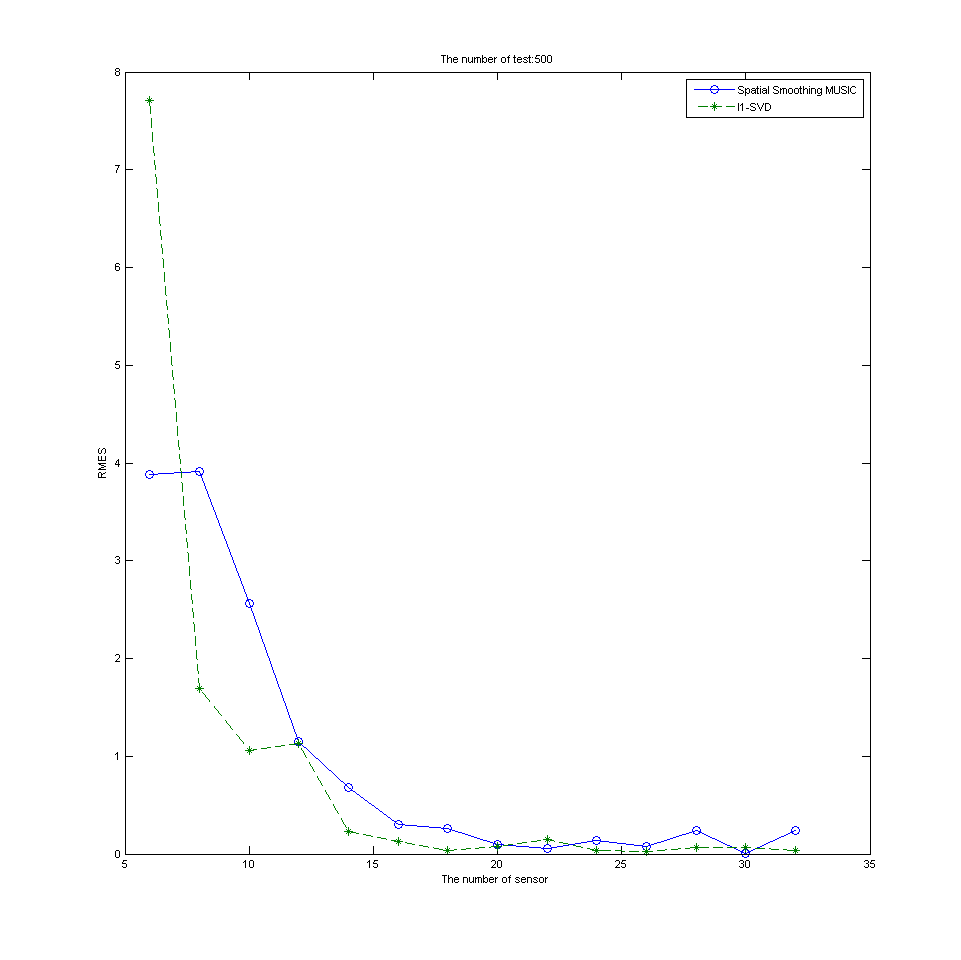
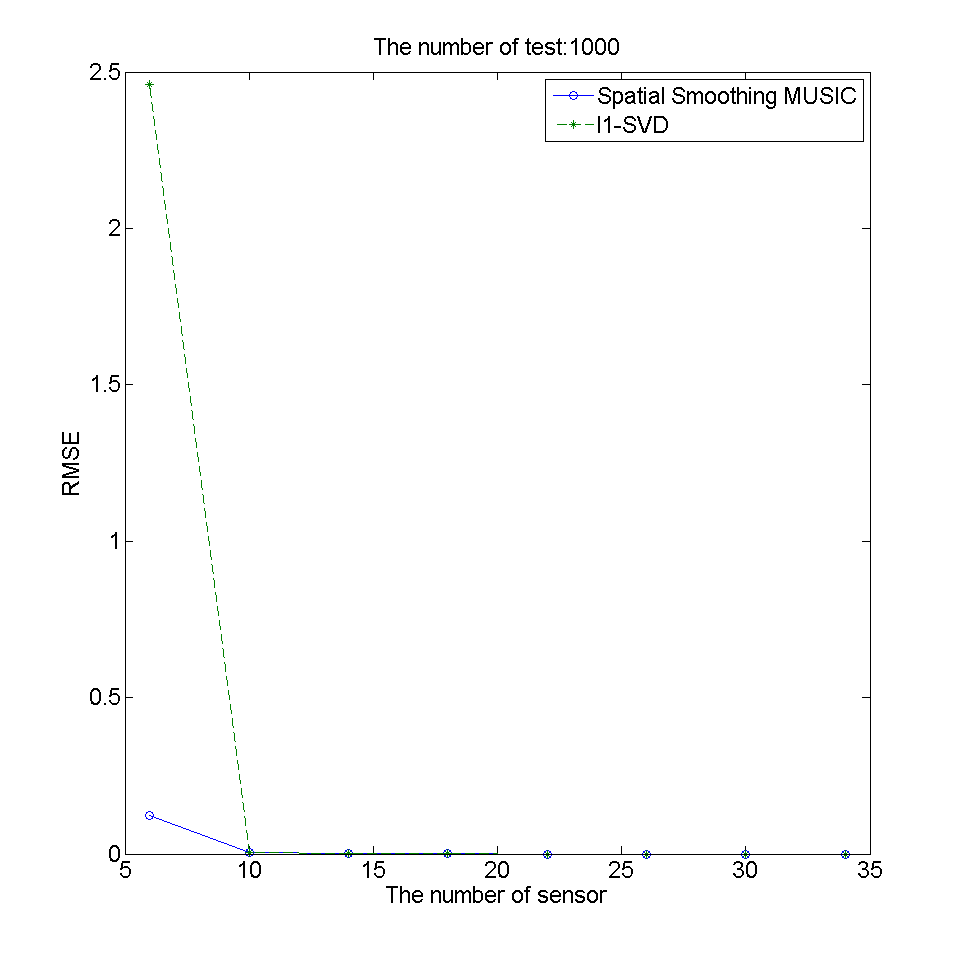
update snr bug

diff --git a/matlab/l1_svd.m b/matlab/l1_svd.m
@@ -29,12 +29,12 @@ function [theta, S_sv_hat] = l1_svd(SNR, snapshots, sensorNum)
     %----------Consider three sources at -10 degree, 0 degree and 10 degree.----------------------%
     %----------Sources at -10 degree and 0 degree is coherent.------------------------------------%
     %----------Each source is generated from a zerom mean Gaussian distribution.------------------%
-    theta_S = [-10; 0; 10];
+    theta_S = [-20; 0; 20];
     sourceNum = length(theta_S);
-    sigma_S = sigma_N * 10^(SNR/20);
+    sigma_S = sigma_N * 10^(SNR/10);
     signalCovMat = [sigma_S, 0.99*sigma_S, 0; 0.99*sigma_S, sigma_S, 0; 0, 0, sigma_S];
     signalAmp = mvnrnd(zeros(sourceNum, 1), signalCovMat, snapshots);
-    signalPhase = exp(-1j*2*pi*f*Ns + randn());
+    signalPhase = exp(-1j*2*pi*f*Ns);
     signalMat = zeros(size(signalAmp));             % Each row is A sample 
     for col = 1: sourceNum
         signalMat(:, col) = signalAmp(:, col) .* signalPhase;
@@ -50,14 +50,14 @@ function [theta, S_sv_hat] = l1_svd(SNR, snapshots, sensorNum)
     [~, ~, rightVec] = svd(arrayOut);
     dimReduceMat = [eye(sourceNum), zeros(sourceNum, snapshots - sourceNum)]';
     arrayOut_DimReduce = arrayOut * rightVec * dimReduceMat;
-    theta = (-90: 90)';                % angle scan range
+    theta = (-90: 0.1: 90)';                % angle scan range
     manifoldMat_hat = zeros(sensorNum, length(theta));
     for col = 1: length(theta)
         manifoldMat_hat(:, col) = exp(-1j*2*pi*f*((spacingK*sind(theta(col)))/c));
     end
 
     %----------SOC programming-----------------------%
-    regParam = 1.4;
+    regParam = 1.42;
     sumVec = ones(length(theta), 1);
     cvx_begin
         variables p q r(length(theta));

diff --git a/matlab/SpatialSmoothing_MUSIC.m b/matlab/SpatialSmoothing_MUSIC.m
@@ -29,12 +29,12 @@ function [theta, P] = SpatialSmoothing_MUSIC(SNR, snapshots, sensorNum)
     %----------Consider three sources at -10 degree, 0 degree and 10 degree.----------------------%
     %----------Sources at -10 degree and 0 degree is coherent.------------------------------------%
     %----------Each source is generated from a zerom mean Gaussian distribution.------------------%
-    theta_S = [-10; 0; 10];
+    theta_S = [-20; 0; 20];
     sourceNum = length(theta_S);
-    sigma_S = sigma_N * 10^(SNR/20);
+    sigma_S = sigma_N * 10^(SNR/10);
     signalCovMat = [sigma_S, 0.99*sigma_S, 0; 0.99*sigma_S, sigma_S, 0; 0, 0, sigma_S];
     signalAmp = mvnrnd(zeros(sourceNum, 1), signalCovMat, snapshots);
-    signalPhase = exp(-1j*2*pi*f*Ns + randn());
+    signalPhase = exp(-1j*2*pi*f*Ns);
     signalMat = zeros(size(signalAmp));             % Each row is A sample 
     for col = 1: sourceNum
         signalMat(:, col) = signalAmp(:, col) .* signalPhase;
@@ -70,7 +70,7 @@ function [theta, P] = SpatialSmoothing_MUSIC(SNR, snapshots, sensorNum)
     [~, eigenValsIdx] = sort(eigenVals);
     noiseSubspace = eigenVec(:, eigenValsIdx(1: m - sourceNum));
 
-    theta = (-90: 90)';
+    theta = (-90: 0.1: 90)';
     P = zeros(length(theta), 1);
     for idx = 1: length(theta)
         steeringVec = exp(-1j*2*pi*f*(spacing*(0: m - 1)'*sind(theta(idx)))/c);

diff --git a/matlab/different_sensorNum_l1_svd_SSMUSIC.m b/matlab/different_sensorNum_l1_svd_SSMUSIC.m
@@ -1,10 +1,10 @@
-theta_S = [-10; 0; 10];
+theta_S = [-20; 0; 20];
 SNR = 25;
 snapshots = 200;
 
-N = 500;
+N = 1000;
 
-sensorNumVals = (6: 2: 32)';
+sensorNumVals = (6: 4: 34)';
 SSm_MUSIC_RMES = zeros(length(sensorNumVals), 1);
 l1_SVD_RMES = zeros(length(sensorNumVals), 1);
 for idx = 1: length(sensorNumVals)
@@ -53,5 +53,5 @@ figure(3)
 plot(sensorNumVals, SSm_MUSIC_RMES, 'o-', sensorNumVals, l1_SVD_RMES, '*--')
 legend('Spatial Smoothing MUSIC', 'l1-SVD');
 xlabel('The number of sensor')
-ylabel('RMES')
+ylabel('RMSE')
 title(strcat('The number of test: ', num2str(N)))

diff --git a/matlab/different_snapshots_l1_svd_SSMUSIC.m b/matlab/different_snapshots_l1_svd_SSMUSIC.m
@@ -1,10 +1,10 @@
-theta_S = [-10; 0; 10];
+theta_S = [-20; 0; 20];
 SNR = 25;
 sensorNum = 8;
 
-N = 500;
+N = 1000;
 
-snapshotsVals = (100: 20: 500)';
+snapshotsVals = (100: 100: 500)';
 SSm_MUSIC_RMES = zeros(length(snapshotsVals), 1);
 l1_SVD_RMES = zeros(length(snapshotsVals), 1);
 
@@ -53,5 +53,5 @@ figure(2)
 plot(snapshotsVals, SSm_MUSIC_RMES, 'o-', snapshotsVals, l1_SVD_RMES, '*--')
 legend('Spatial Smoothing MUSIC', 'l1-SVD');
 xlabel('The number of snapshots')
-ylabel('RMES')
+ylabel('RMSE')
 title(strcat('The number of test: ', num2str(N)))

diff --git a/matlab/MUSIC/MUSIC.m b/matlab/MUSIC/MUSIC.m
@@ -19,7 +19,7 @@ N = (sigma_N*randn(M, n) + 0).*exp(-1j*2*pi*f*Ns);
 %----------Consider three uncorrlated sources at -10 degree, 0 degree and 10 degree,----------------------%
 %----------Each source is generated from a zerom mean Gaussian distribution.------------------%
 D = 3;                                                         % The number of sources    
-sigma_S = sigma_N * 10^(SNR/20);
+sigma_S = sigma_N * 10^(SNR/10);
 S = (sigma_S*randn(D, n) + 0).*exp(-1j*2*pi*f*Ns);
 
 theta_S = [-10; 0; 10];

diff --git a/matlab/different_SNR_l1_svd_SSMUSIC.m b/matlab/different_SNR_l1_svd_SSMUSIC.m
@@ -1,8 +1,8 @@
-theta_S = [-10; 0; 10];
+theta_S = [-20; 0; 20];
 snapshots = 200;
 sensorNum = 8;
 
-N = 500;
+N = 1000;
 
 SNRVals = (-5: 5: 25)';
 SSm_MUSIC_RMES = zeros(length(SNRVals), 1);
@@ -54,7 +54,7 @@ figure(1)
 plot(SNRVals, SSm_MUSIC_RMES, 'o-', SNRVals, l1_SVD_RMES, '*--')
 legend('Spatial Smoothing MUSIC', 'l1-SVD');
 xlabel('SNR(dB)')
-ylabel('RMES')
+ylabel('RMSE')
 title(strcat('The number of test: ', num2str(N)))
 
 

diff --git a/matlab/demo.m b/matlab/demo.m
@@ -1,0 +1,10 @@
+tic
+[theta, P] = l1_svd(25, 200, 8);
+% [theta, P] = SpatialSmoothing_MUSIC(25, 300, 8);
+semilogy(theta, abs(P)/max(abs(P)))
+grid on
+[peakVals, locs] = findpeaks(abs(P));
+[~, peakIdx] = sort(peakVals, 'descend');
+peakIdx = locs(peakIdx(1: 3));
+theta_hat = theta(peakIdx)
+toc
